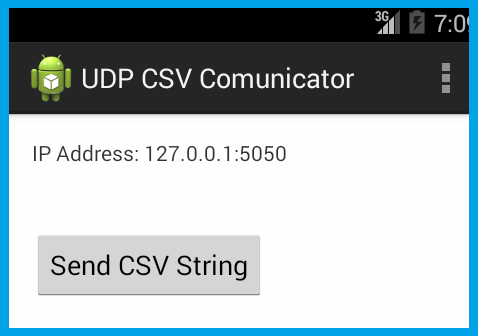
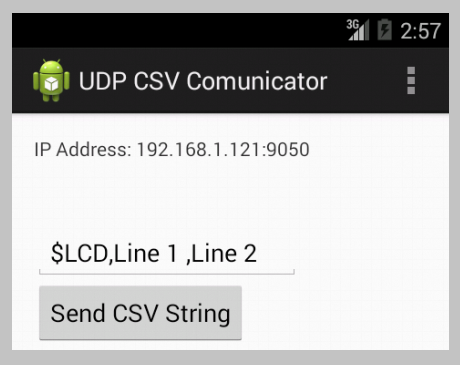
Added Doc EditText Field for entering UDP Message to send

diff --git a/README.md b/README.md
@@ -14,7 +14,7 @@ Working functionalities:<br>
 <br>
 ![alt tag](https://raw.githubusercontent.com/rlangoy/IFIVUDPCSVComunicatorExperiment/AlphaDev/doc/Images/SendButton.PNG)
 <br>
-Sends a UDP message containing "$Info,Item nr 1,Item nr 2" when the user pushes the button "Send CVS String"<br>
+Sends the UDP message displayed in the EditText field when the user pushes the button "Send CVS String"<br>
 <br>
 Work in the develoment braches/Intentions
 --------------------------
